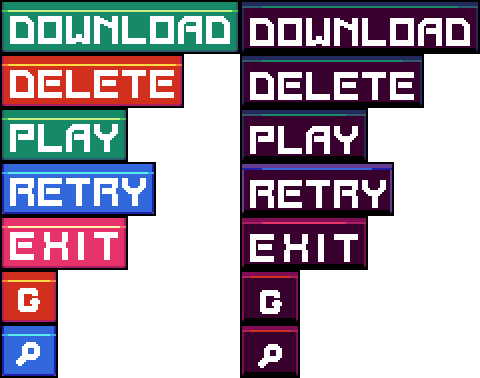
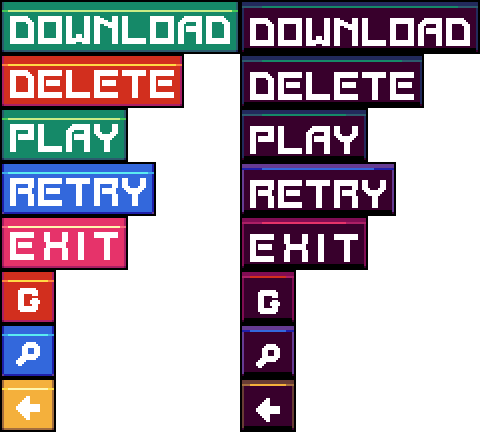
Implemented Back && Reset Buttons
Added a back button that will return you to the game mode select screen and gave the "reset game mode" button on the game mode select screen the functionality of resetting all the levels in the game mode

diff --git a/HackYourSummerProjectTwo/Game1.cs b/HackYourSummerProjectTwo/Game1.cs
@@ -30,7 +30,7 @@ namespace HackYourSummerProjectTwo
         #endregion
 
         #region Homebrew Type Variables
-        private Button acceptButton, denyButton, notepadButton, returnToLevelSelectButton, levelResetButton;
+        private Button acceptButton, denyButton, notepadButton, returnToLevelSelectButton, levelRestartButton, backButton;
         private AnimatedBackground animatedBackground;
         private GameModeWindow programModeWindow;
         private ApplicationClient currentClient;
@@ -47,6 +47,7 @@ namespace HackYourSummerProjectTwo
         private List<LevelSelector> levels;
         private ArrayList assessmentBar;
         private List<Notification> timeNotificationArrayList;
+        private Stack screenQueue;
         #endregion
 
         #region Miscellaneous (Mostly Primitive) Variables
@@ -73,6 +74,7 @@ namespace HackYourSummerProjectTwo
             assessmentMeter = 0;
             levelFinished = false;
             timer = 0;
+            screenQueue = new Stack();
 
             base.Initialize();
         }
@@ -103,7 +105,8 @@ namespace HackYourSummerProjectTwo
             denyButton = new Button(buttonTexture, 455, 360, 184, 54, new Rectangle(0, 54, 184, 54));
             notepadButton = new Button(buttonTexture, 740, 2, 58, 54, new Rectangle(0, 324, 58, 54));
             returnToLevelSelectButton = new Button(buttonTexture, 445, 275, 126, 54, new Rectangle(0, 216, 126, 54));
-            levelResetButton = new Button(buttonTexture, 225, 275, 154, 54, new Rectangle(0, 162, 154, 54));
+            levelRestartButton = new Button(buttonTexture, 225, 275, 154, 54, new Rectangle(0, 162, 154, 54));
+            backButton = new Button(buttonTexture, 106, 102, 58, 54, new Rectangle(0, 378, 58, 54));
 
             programModeWindow = new GameModeWindow(gameModeWindowTexture, buttonTexture, new Vector2(253, 67));
             notepad = new Notepad(notepadFrameTexture, 200, 120, 296, 240, font);
@@ -115,9 +118,12 @@ namespace HackYourSummerProjectTwo
             denyButton.OnButtonClick += DenyClient;
             notepadButton.OnButtonClick += ToggleNotepad;
             returnToLevelSelectButton.OnButtonClick += NavigateToLevelSelect;
-            levelResetButton.OnButtonClick += NavigateToPrimaryGameScreen;
+            levelRestartButton.OnButtonClick += NavigateToPrimaryGameScreen;
+            backButton.OnButtonClick += NavigateBackwards;
+
 
             programModeWindow.Buttons[0].OnButtonClick += NavigateToLevelSelect;
+            programModeWindow.Buttons[1].OnButtonClick += ResetGameMode;
             #endregion
 
             for (int i = 0; i < 10; i++)
@@ -152,6 +158,7 @@ namespace HackYourSummerProjectTwo
                     if (animatedBackground.ForegroundOpacity == 0)
                     {
                         currentGameState = GameState.MainMenu;
+                        screenQueue.Push(currentGameState);
                     }
                     break;
                 case GameState.MainMenu:
@@ -160,6 +167,7 @@ namespace HackYourSummerProjectTwo
                 case GameState.Settings:
                     break;
                 case GameState.LevelSelect:
+                    backButton.Update();
                     foreach (LevelSelector selector in levels)
                     {
                         selector.Update();
@@ -194,7 +202,7 @@ namespace HackYourSummerProjectTwo
                     else
                     {
                         returnToLevelSelectButton.Update();
-                        levelResetButton.Update();
+                        levelRestartButton.Update();
                     }
 
                     for (int i = 0; i < notificationArrayList.Count; i++)
@@ -235,6 +243,7 @@ namespace HackYourSummerProjectTwo
             switch (currentGameState)
             {
                 case GameState.TitleScreen:
+
                     break;
                 case GameState.MainMenu:
                     programModeWindow.Draw(_spriteBatch);
@@ -247,6 +256,7 @@ namespace HackYourSummerProjectTwo
                     {
                         selector.Draw(_spriteBatch);
                     }
+                    backButton.Draw(_spriteBatch);
                     break;
                 case GameState.PrimaryGameScreen:
                     _spriteBatch.Draw(taskbarTexture, new Rectangle(0, 0, 800, 480), Color.White);
@@ -271,7 +281,7 @@ namespace HackYourSummerProjectTwo
                         _spriteBatch.Draw(levelSelectMenuTexture, new Rectangle(125, 119, 550, 242), Color.White);
 
                         returnToLevelSelectButton.Draw(_spriteBatch);
-                        levelResetButton.Draw(_spriteBatch);
+                        levelRestartButton.Draw(_spriteBatch);
                         string score = (assessmentMeter >= minimumAssessmentNum) ? "Level Passed" : "Level Failed";
                         _spriteBatch.DrawString(font, score, new Vector2(400 - (font.MeasureString(score).X / 2), 220), Color.White);
                     }
@@ -403,7 +413,7 @@ namespace HackYourSummerProjectTwo
             }
         }
 
-        public void PopulateClientList()
+        protected void PopulateClientList()
         {
             clientList.Clear();
             minimumAssessmentNum = 8;
@@ -436,6 +446,24 @@ namespace HackYourSummerProjectTwo
                 clientList.Add(new ApplicationClient(programIconTextures, 272, 112, 256, 256, (DifficultyLevel)difficultyLevel, font, textBackgroundTexture));
             }
             currentClient = (ApplicationClient)clientList[0];
+        }
+
+        protected void NavigateBackwards()
+        {
+            currentGameState = (GameState)screenQueue.Pop();
+            screenQueue.Push(currentGameState);
+        }
+
+        protected void ResetGameMode()
+        {
+            for (int i = 0; i < levels.Count; i++)
+            {
+                if (i != 0)
+                {
+                    levels[i].IsLocked = true;
+                }
+                levels[i].IsCompleted = false;
+            }
         }
     }
 }

diff --git a/HackYourSummerProjectTwo/GameModeWindow.cs b/HackYourSummerProjectTwo/GameModeWindow.cs
@@ -6,9 +6,8 @@ namespace HackYourSummerProjectTwo
     internal class GameModeWindow
     {
         private Texture2D windowTexture;
-        private Texture2D buttonTexture;
         private Rectangle destinationRectangle;
-        private Button restartGameModeButton;
+        private Button resetGameModeButton;
         private Button selectGameModeButton;
         private Button[] buttons;
 
@@ -17,27 +16,26 @@ namespace HackYourSummerProjectTwo
         public GameModeWindow(Texture2D windowTexture, Texture2D buttonTexture, Vector2 location)
         {
             this.windowTexture = windowTexture;
-            this.buttonTexture = buttonTexture;
             destinationRectangle = new Rectangle((int)location.X, (int)location.Y, windowTexture.Width * 2, windowTexture.Height * 2);
-            restartGameModeButton = new Button(buttonTexture, (int)location.X + 196, (int)location.Y + 306, 58, 54, new Rectangle(0, 270, 58, 54));
+            resetGameModeButton = new Button(buttonTexture, (int)location.X + 196, (int)location.Y + 306, 58, 54, new Rectangle(0, 270, 58, 54));
             selectGameModeButton = new Button(buttonTexture, (int)location.X + 46, (int)location.Y + 306, 128, 54, new Rectangle(0, 108, 128, 54));
 
             buttons = new Button[2];
             buttons[0] = selectGameModeButton;
-            buttons[1] = restartGameModeButton;
+            buttons[1] = resetGameModeButton;
         }
 
         public void Update()
         {
             selectGameModeButton.Update();
-            restartGameModeButton.Update();
+            resetGameModeButton.Update();
         }
 
         public void Draw(SpriteBatch sb)
         {
             sb.Draw(windowTexture, destinationRectangle, Color.White);
             selectGameModeButton.Draw(sb);
-            restartGameModeButton.Draw(sb);
+            resetGameModeButton.Draw(sb);
         }
     }
 }
